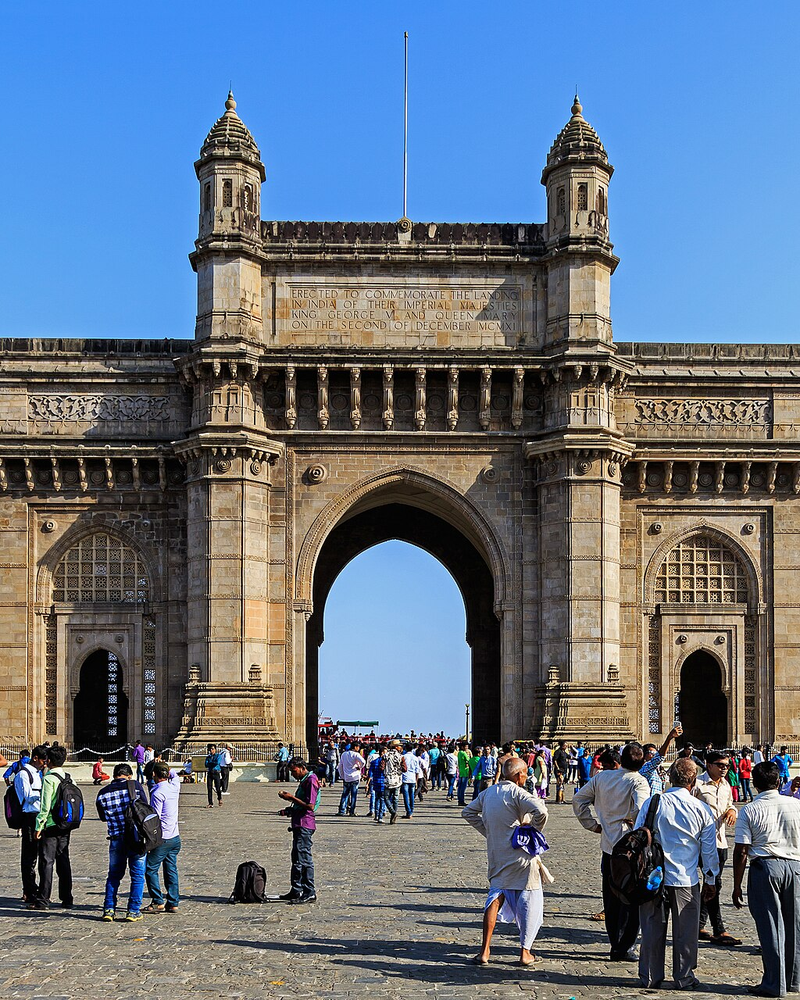
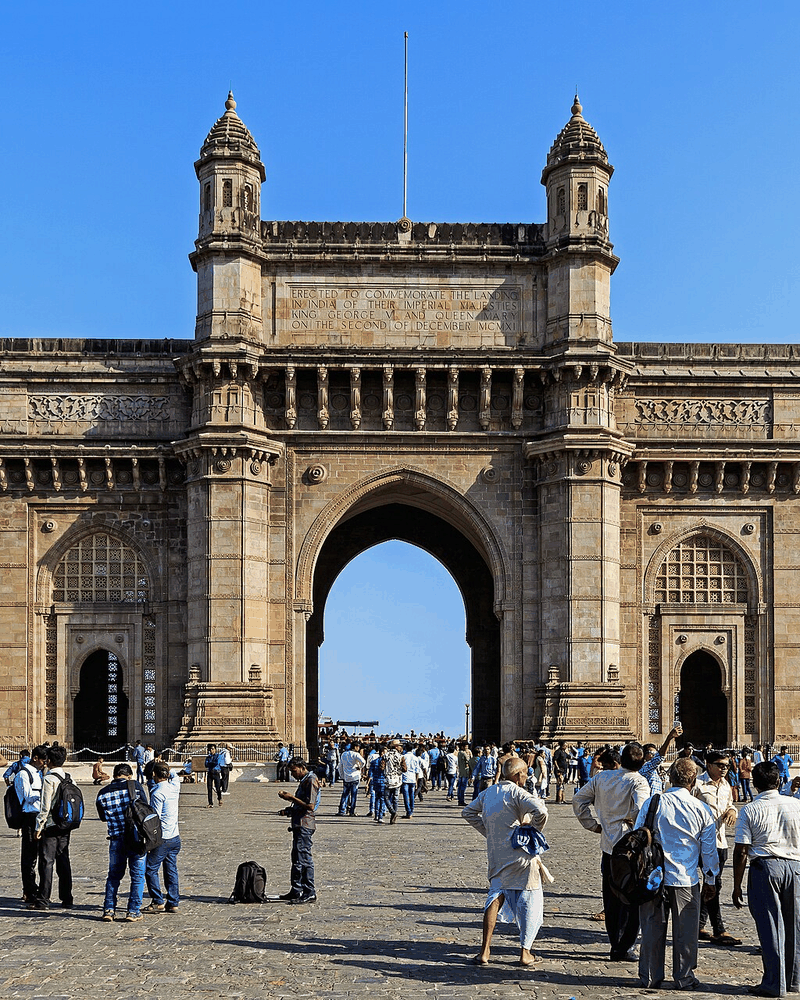
perf: optimize images to WebP (93% smaller), enable Nginx 30d caching and Gzip

diff --git a/templates/public_portal/01_landing.html b/templates/public_portal/01_landing.html
@@ -9,7 +9,7 @@
   .hero-section {
     position: relative;
     min-height: 840px;
-    background: url('/static/public/images/hero_garden_apartment.png') center center / cover no-repeat;
+    background: url('/static/public/images/hero_garden_apartment.webp') center center / cover no-repeat;
     display: flex;
     flex-direction: column;
     justify-content: flex-end;
@@ -1229,7 +1229,7 @@
     <!-- 1. The Handpicked Edit -->
     <a href="{% url 'public_portal:explore_stays' %}?max_price=35000" class="collection-card">
       <div class="collection-photo-wrap">
-        <img src="/static/public/images/coll_handpicked.png" alt="Handpicked Spaces" class="collection-photo">
+        <img src="/static/public/images/coll_handpicked.webp" alt="Handpicked Spaces" class="collection-photo" loading="lazy" decoding="async">
         <div class="collection-badge">The Handpicked Edit</div>
       </div>
       <div class="collection-body">
@@ -1245,7 +1245,7 @@
     <!-- 2. Smarter Starts -->
     <a href="{% url 'public_portal:explore_stays' %}?max_price=12000" class="collection-card">
       <div class="collection-photo-wrap">
-        <img src="/static/public/images/coll_budget.png" alt="Smarter Starts" class="collection-photo">
+        <img src="/static/public/images/coll_budget.webp" alt="Smarter Starts" class="collection-photo" loading="lazy" decoding="async">
         <div class="collection-badge badge-maroon">Smarter Starts</div>
       </div>
       <div class="collection-body">
@@ -1371,7 +1371,7 @@
       </div>
     </div>
     <div class="host-callout-right">
-      <img src="/static/public/images/host_cta_banner.png" alt="Sunny Living Room" class="host-callout-img">
+      <img src="/static/public/images/host_cta_banner.webp" alt="Sunny Living Room" class="host-callout-img" loading="lazy" decoding="async">
       <div class="host-floating-pill">
         <span>🏠</span>
         <span>Good homes deserve to be found.</span>

diff --git a/public_portal/views.py b/public_portal/views.py
@@ -30,9 +30,9 @@ def get_curated_properties():
     
     # Defaults in case DB is lightly populated
     sample_photos = [
-        '/static/public/images/stay_olive_house.png',
-        '/static/public/images/stay_nest_lane7.png',
-        '/static/public/images/stay_grove_collective.png',
+        '/static/public/images/stay_olive_house.webp',
+        '/static/public/images/stay_nest_lane7.webp',
+        '/static/public/images/stay_grove_collective.webp',
         'https://images.unsplash.com/photo-1522771739844-6a9f6d5f14af?w=800&auto=format&fit=crop&q=80',
         'https://images.unsplash.com/photo-1502672260266-1c1ef2d93688?w=800&auto=format&fit=crop&q=80',
         'https://images.unsplash.com/photo-1560448204-e02f11c3d0e2?w=800&auto=format&fit=crop&q=80',
@@ -89,11 +89,11 @@ def home_landing(request):
     )
     city_cards = []
     default_city_data = [
-        {'name': 'Indore', 'photo': '/static/public/images/city_indore.png', 'count': '5 verified stays', 'tagline': "India's Cleanest City · Tech & Startup Hub"},
-        {'name': 'Bengaluru', 'photo': '/static/public/images/city_bengaluru.png', 'count': '8 verified stays', 'tagline': 'The Silicon Valley of India'},
-        {'name': 'Mumbai', 'photo': '/static/public/images/city_mumbai.png', 'count': '6 verified stays', 'tagline': 'City of Dreams & Coastal Energy'},
-        {'name': 'Pune', 'photo': '/static/public/images/city_pune.png', 'count': '5 verified stays', 'tagline': 'Oxford of the East & IT Oasis'},
-        {'name': 'Hyderabad', 'photo': '/static/public/images/city_hyderabad.png', 'count': '3 verified stays', 'tagline': 'Cyberabad Heritage & Culinary Hub'},
+        {'name': 'Indore', 'photo': '/static/public/images/city_indore.webp', 'count': '5 verified stays', 'tagline': "India's Cleanest City · Tech & Startup Hub"},
+        {'name': 'Bengaluru', 'photo': '/static/public/images/city_bengaluru.webp', 'count': '8 verified stays', 'tagline': 'The Silicon Valley of India'},
+        {'name': 'Mumbai', 'photo': '/static/public/images/city_mumbai.webp', 'count': '6 verified stays', 'tagline': 'City of Dreams & Coastal Energy'},
+        {'name': 'Pune', 'photo': '/static/public/images/city_pune.webp', 'count': '5 verified stays', 'tagline': 'Oxford of the East & IT Oasis'},
+        {'name': 'Hyderabad', 'photo': '/static/public/images/city_hyderabad.webp', 'count': '3 verified stays', 'tagline': 'Cyberabad Heritage & Culinary Hub'},
     ]
 
     for item in default_city_data:
@@ -133,7 +133,7 @@ def about_founder(request):
         'name': 'Gourav Gurjar',
         'role': 'Founder & Chief Architect',
         'credentials': 'Ex-MAANG/FAANG Systems Engineer · Distributed Architect',
-        'photo': '/static/public/images/founder.png',
+        'photo': '/static/public/images/founder.webp',
         'mission_headline': 'Eliminating predatory rental brokerage with engineering rigor, radical transparency, and human empathy.',
         'short_bio': 'Crafted in Silicon Valley engineering disciplines, returned to solve India\'s most painful real-estate barrier: the lack of trust between seekers and property owners.',
         'full_story': """
@@ -213,9 +213,9 @@ def explore_stays(request):
 
     properties_list = list(qs)
     sample_photos = [
-        '/static/public/images/stay_olive_house.png',
-        '/static/public/images/stay_nest_lane7.png',
-        '/static/public/images/stay_grove_collective.png',
+        '/static/public/images/stay_olive_house.webp',
+        '/static/public/images/stay_nest_lane7.webp',
+        '/static/public/images/stay_grove_collective.webp',
         'https://images.unsplash.com/photo-1522771739844-6a9f6d5f14af?w=800&auto=format&fit=crop&q=80',
         'https://images.unsplash.com/photo-1502672260266-1c1ef2d93688?w=800&auto=format&fit=crop&q=80',
         'https://images.unsplash.com/photo-1560448204-e02f11c3d0e2?w=800&auto=format&fit=crop&q=80',
@@ -328,7 +328,7 @@ def stay_details(request, property_id):
             })
     # Clean Real-world Data (No mock fallback)
     photos = list(prop.gallery_photos.all())
-    default_photo = '/static/public/images/stay_olive_house.png'
+    default_photo = '/static/public/images/stay_olive_house.webp'
     gallery_urls = [p.photo_url for p in photos if p.photo_url] or [default_photo]
 
     reviews = list(prop.reviews.filter(status='APPROVED').select_related('user'))
@@ -452,7 +452,7 @@ def locations_overview(request):
             'description': "7-time national cleanliness champion, premier IIT & IIM educational corridors, booming Super Corridor IT hubs, renowned culinary legacy at Sarafa & 56 Dukan, and peaceful green living.",
             'avg_rent': '₹9,500',
             'stay_count': '5 verified stays',
-            'photo': '/static/public/images/city_indore.png',
+            'photo': '/static/public/images/city_indore.webp',
             'popular_localities': ['Vijay Nagar', 'Super Corridor', 'Bhawarkua', 'Palasia', 'Geeta Bhawan', 'Rau'],
             'tech_parks': 'TCS & Infosys Super Corridor · Crystal IT Park',
             'metro_connectivity': 'Indore Metro Yellow Line Priority Corridor',
@@ -465,7 +465,7 @@ def locations_overview(request):
             'description': 'Lush garden boulevards, global tech parks, and thriving indie cafe culture. India\'s premier startup capital.',
             'avg_rent': '₹14,500',
             'stay_count': '8 verified stays',
-            'photo': '/static/public/images/city_bengaluru.png',
+            'photo': '/static/public/images/city_bengaluru.webp',
             'popular_localities': ['Koramangala', 'Indiranagar', 'HSR Layout', 'Whitefield', 'Bellandur', 'Electronic City'],
             'tech_parks': 'Ecoworld · Manyata · Bagmane',
             'metro_connectivity': 'Purple & Green Lines',
@@ -478,7 +478,7 @@ def locations_overview(request):
             'description': 'Sea-breeze promenades, premier corporate headquarters, and high-energy urban nightlife.',
             'avg_rent': '₹22,000',
             'stay_count': '6 verified stays',
-            'photo': '/static/public/images/city_mumbai.png',
+            'photo': '/static/public/images/city_mumbai.webp',
             'popular_localities': ['Bandra West', 'Powai', 'Andheri East', 'Lower Parel', 'Juhu', 'Worli'],
             'tech_parks': 'BKC · Nesco · Mindspace',
             'metro_connectivity': 'Metro 1, 2A & 7',
@@ -491,7 +491,7 @@ def locations_overview(request):
             'description': 'Pleasant year-round weather, rich academic pedigree, and sprawling technology campuses.',
             'avg_rent': '₹12,000',
             'stay_count': '5 verified stays',
-            'photo': '/static/public/images/city_pune.png',
+            'photo': '/static/public/images/city_pune.webp',
             'popular_localities': ['Koregaon Park', 'Viman Nagar', 'Hinjawadi', 'Baner', 'Kalyani Nagar', 'Aundh'],
             'tech_parks': 'Rajiv Gandhi Infotech · EON IT',
             'metro_connectivity': 'Pune Metro Line 1 & 2',
@@ -504,7 +504,7 @@ def locations_overview(request):
             'description': 'Historic grandeur, world-class biotechnology and cloud infrastructure corridors, and authentic hospitality.',
             'avg_rent': '₹11,500',
             'stay_count': '3 verified stays',
-            'photo': '/static/public/images/city_hyderabad.png',
+            'photo': '/static/public/images/city_hyderabad.webp',
             'popular_localities': ['Gachibowli', 'Madhapur', 'Hitec City', 'Kondapur', 'Jubilee Hills', 'Banjara Hills'],
             'tech_parks': 'Cyber Towers · Mindspace · DLF',
             'metro_connectivity': 'Red & Blue Metro Lines',
@@ -517,7 +517,7 @@ def locations_overview(request):
             'description': 'Sprawling expressways, rapid metro access, premier MNC hubs in Cyber City, and vibrant student enclaves.',
             'avg_rent': '₹13,500',
             'stay_count': '2 verified stays',
-            'photo': '/static/public/images/city_delhi.png',
+            'photo': '/static/public/images/city_delhi.webp',
             'popular_localities': ['DLF Cyber City', 'Golf Course Road', 'Sector 62 Noida', 'South Campus', 'Hauz Khas'],
             'tech_parks': 'Cyber Hub · Candor TechSpace',
             'metro_connectivity': 'Delhi Metro & Rapid Metro',

diff --git a/tenant_portal/views.py b/tenant_portal/views.py
@@ -176,10 +176,10 @@ def tenant_overview(request):
     target_city_names = ['Indore', 'Bengaluru', 'Pune', 'Hyderabad']
     city_cards = []
     city_fallback_images = {
-        'Indore': '/static/public/images/city_indore.png',
-        'Bengaluru': '/static/public/images/city_bengaluru.png',
-        'Pune': '/static/public/images/city_pune.png',
-        'Hyderabad': '/static/public/images/city_hyderabad.png',
+        'Indore': '/static/public/images/city_indore.webp',
+        'Bengaluru': '/static/public/images/city_bengaluru.webp',
+        'Pune': '/static/public/images/city_pune.webp',
+        'Hyderabad': '/static/public/images/city_hyderabad.webp',
     }
     for c_name in target_city_names:
         c_obj = City.objects.filter(name__icontains=c_name).first()
